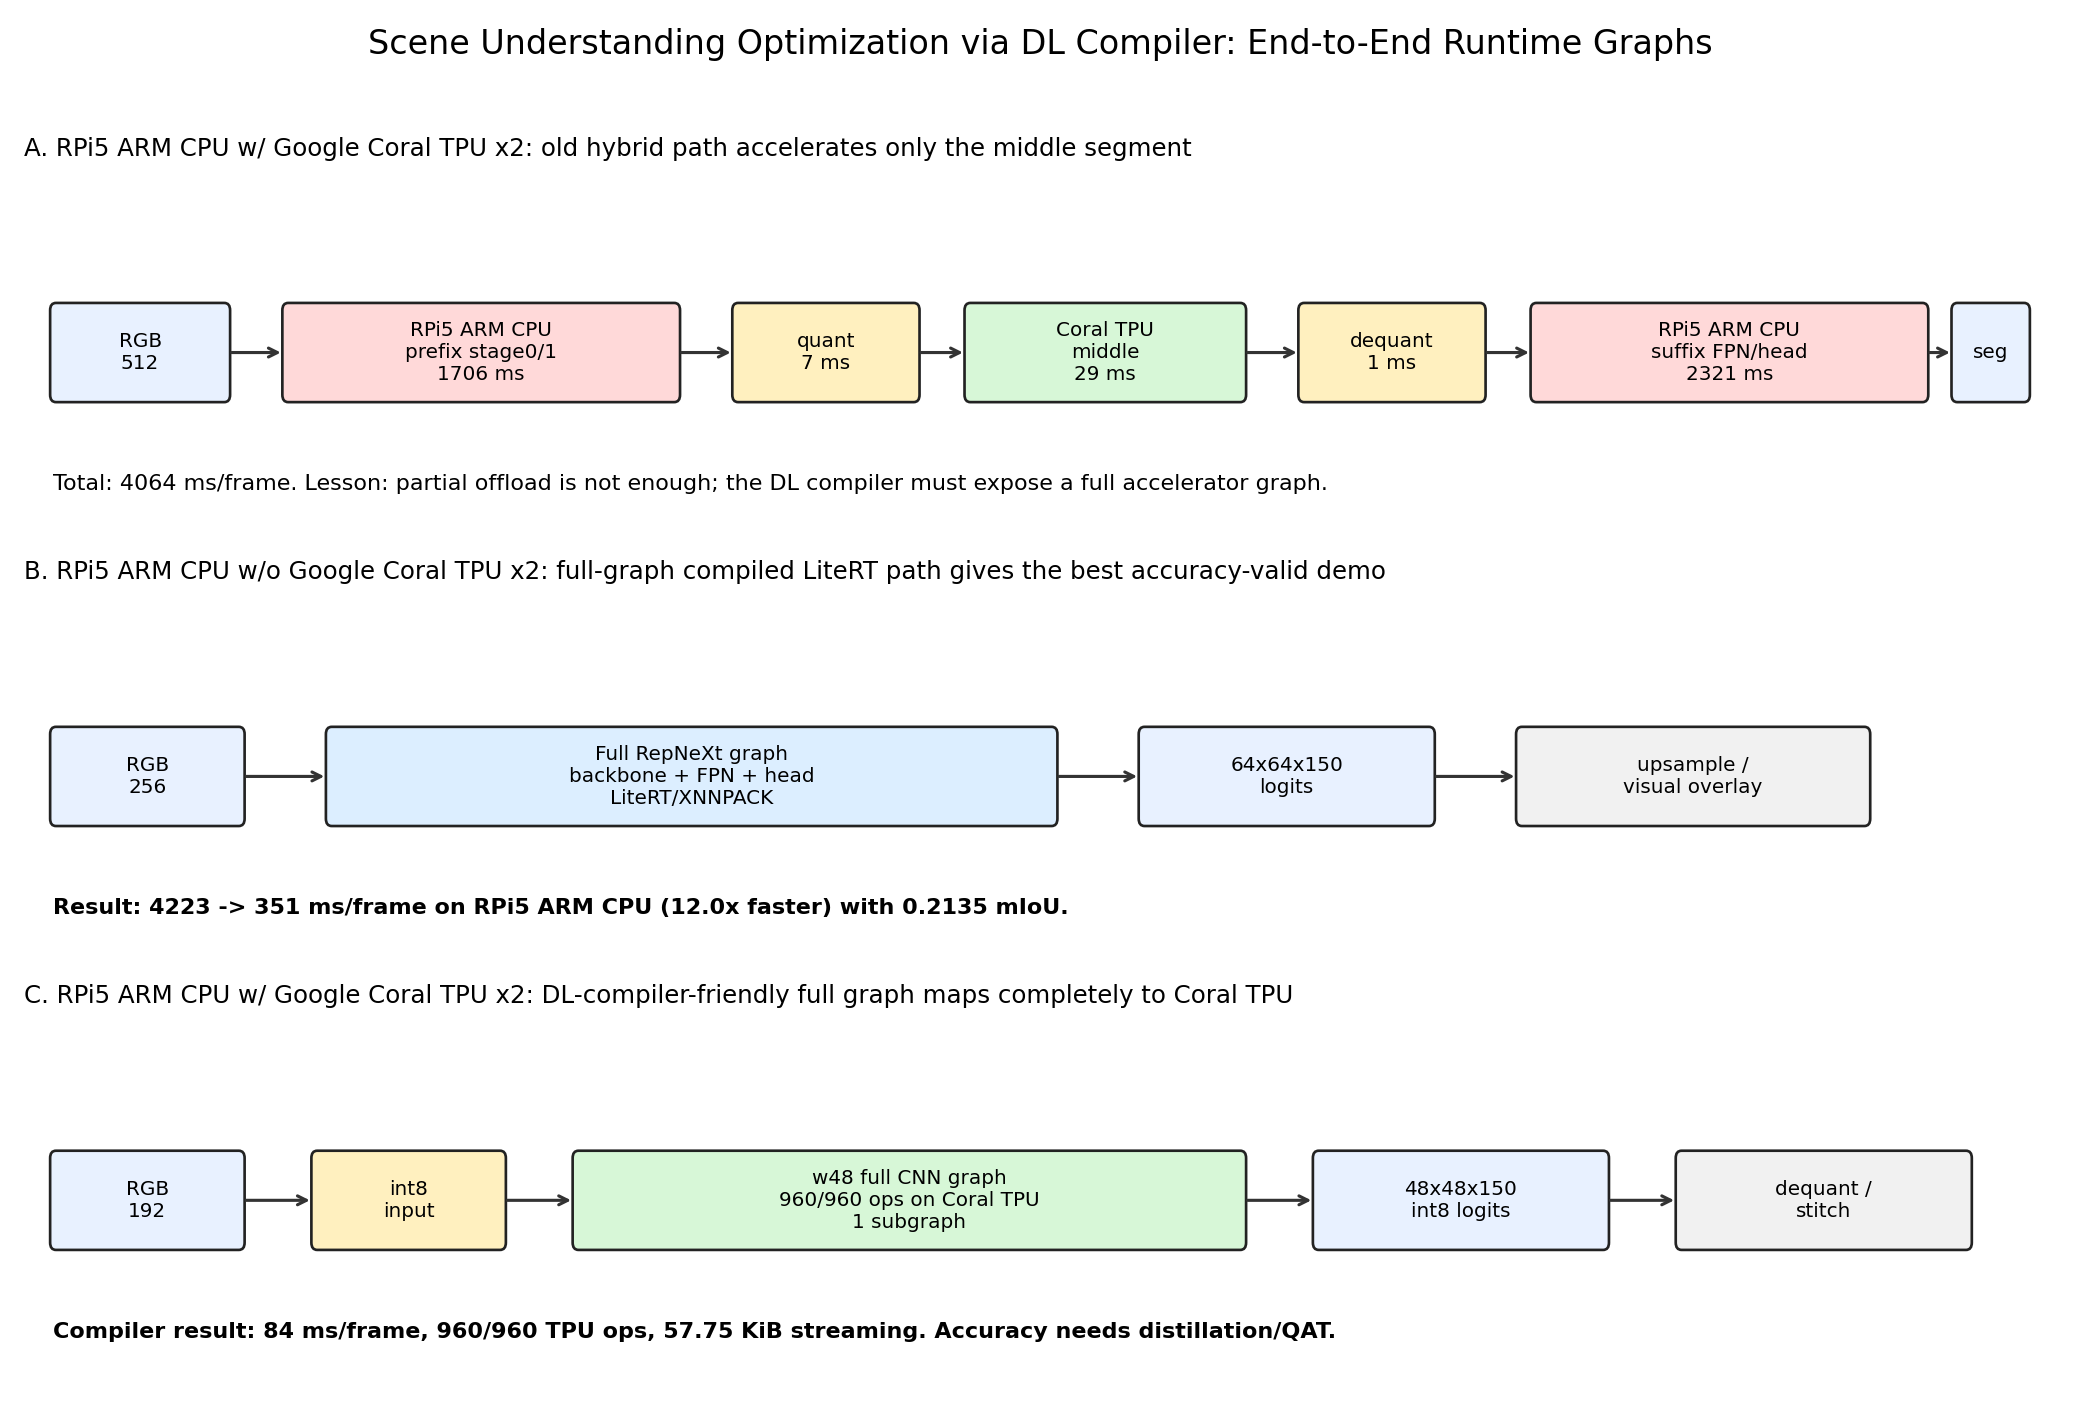
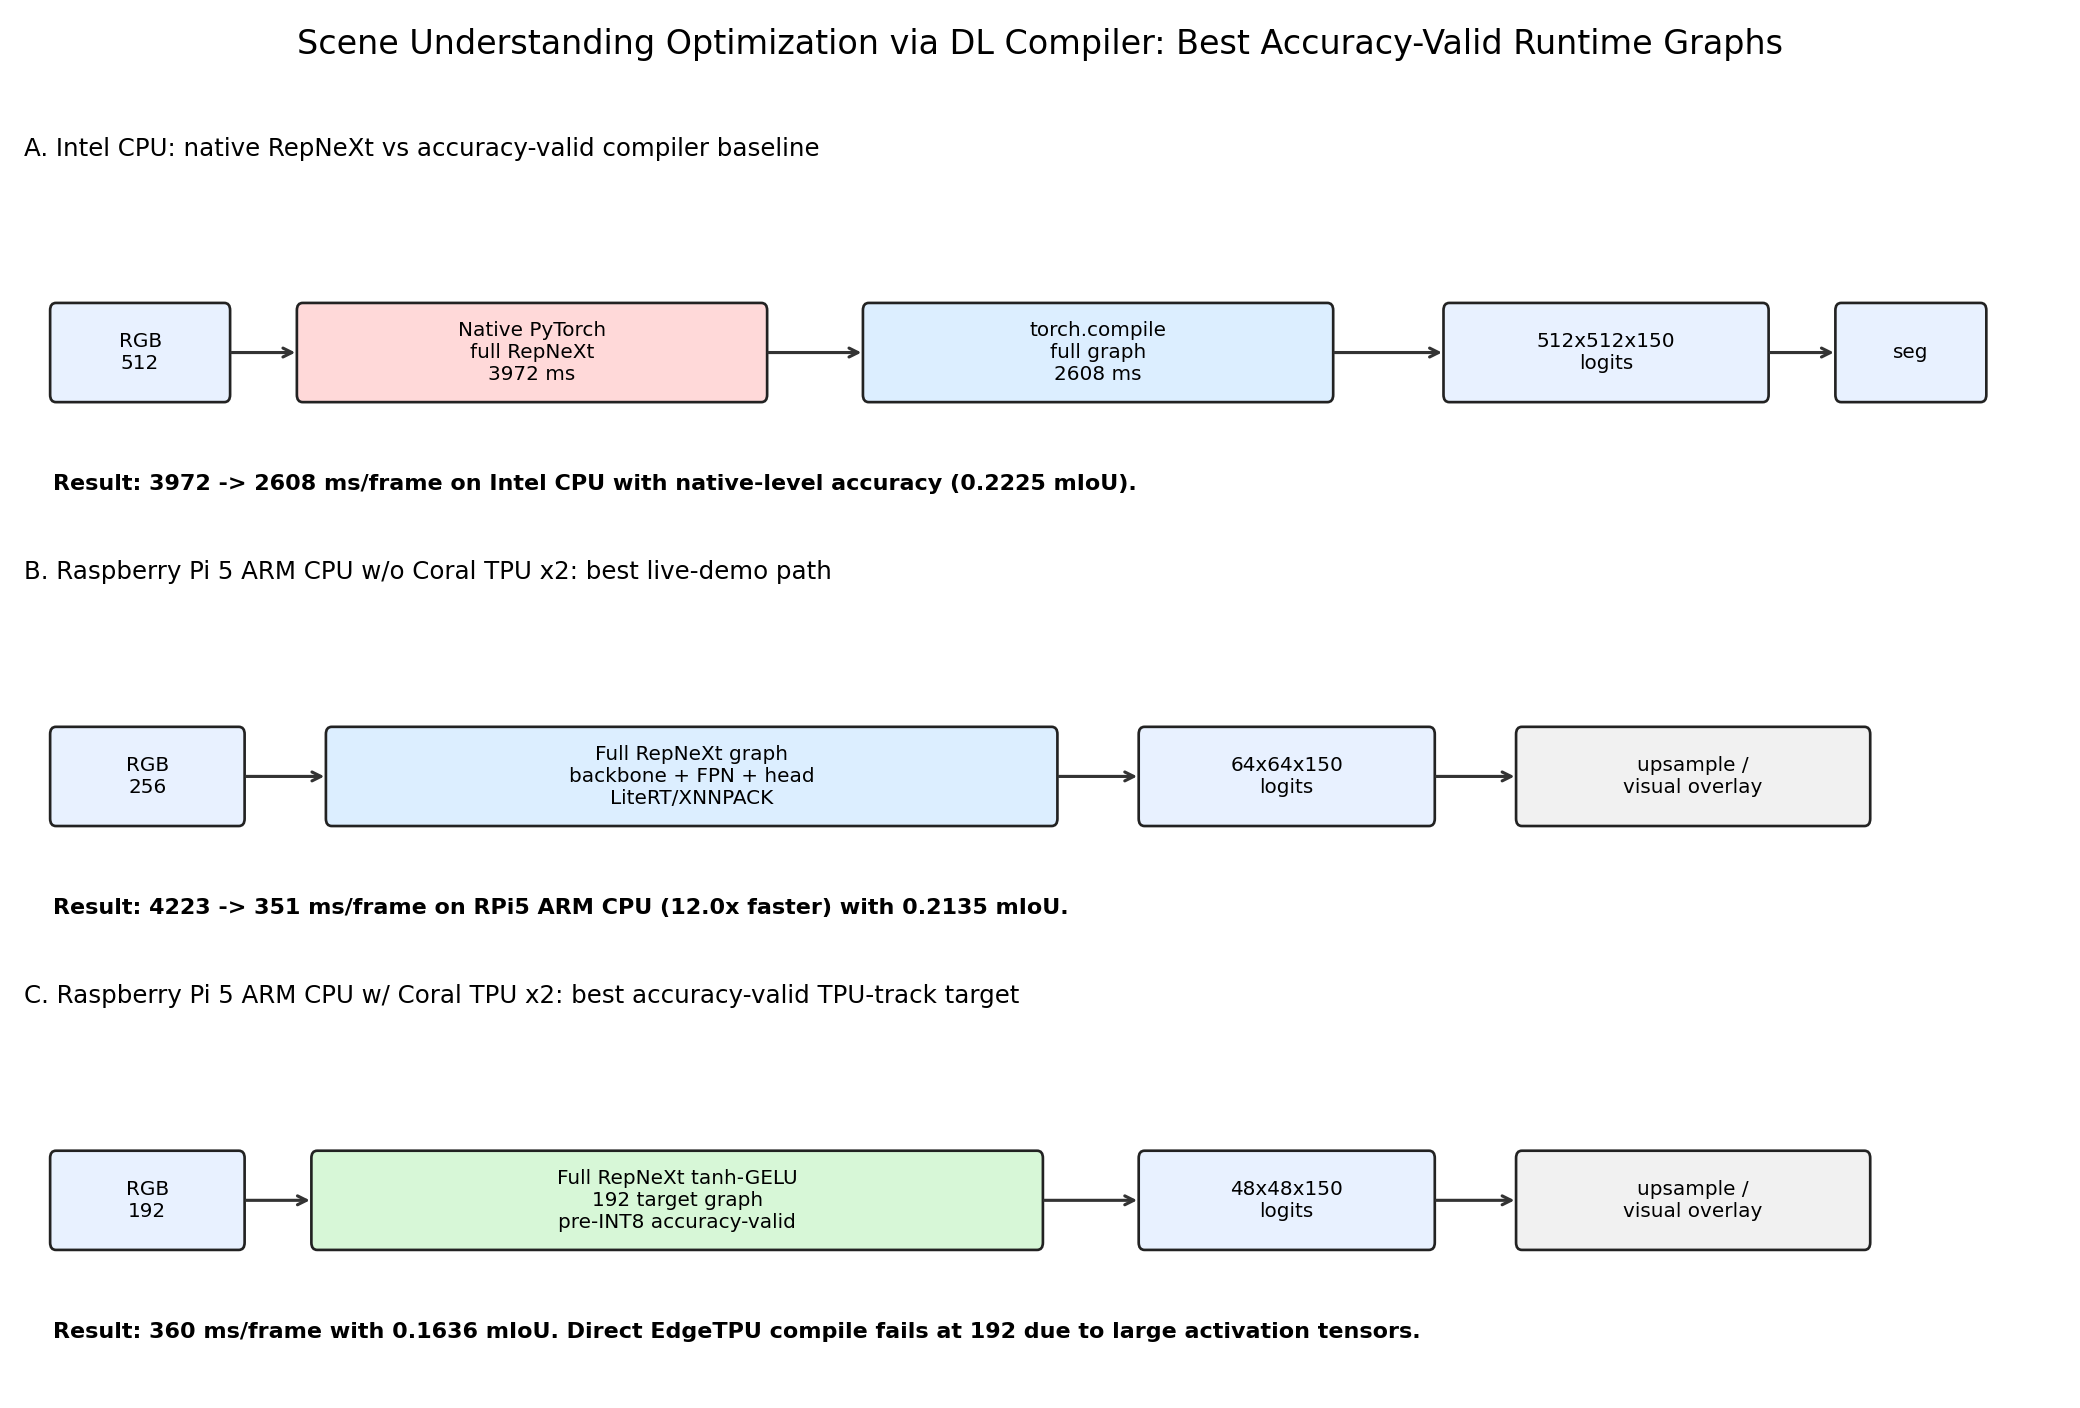
Update runtime graph to best track methods

diff --git a/demo/runtime_graph_viz.py b/demo/runtime_graph_viz.py
@@ -43,12 +43,12 @@ def arrow(ax, x0, y0, x1, y1):
 
 def render_pipeline_graph() -> None:
     fig, axes = plt.subplots(3, 1, figsize=(13, 8.8))
-    fig.suptitle("Scene Understanding Optimization via DL Compiler: End-to-End Runtime Graphs", fontsize=15, y=0.98)
+    fig.suptitle("Scene Understanding Optimization via DL Compiler: Best Accuracy-Valid Runtime Graphs", fontsize=15, y=0.98)
 
-    # 1. Old hybrid pipeline.
+    # 1. Intel CPU compiler baseline.
     ax = axes[0]
     ax.set_title(
-        "A. RPi5 ARM CPU w/ Google Coral TPU x2: old hybrid path accelerates only the middle segment",
+        "A. Intel CPU: native RepNeXt vs accuracy-valid compiler baseline",
         fontsize=11,
         loc="left",
     )
@@ -57,25 +57,24 @@ def render_pipeline_graph() -> None:
     ax.axis("off")
     y = 0.75
     box(ax, (0.2, y), (1.2, 0.5), "RGB\n512", "#e8f1ff")
-    box(ax, (1.8, y), (2.7, 0.5), "RPi5 ARM CPU\nprefix stage0/1\n1706 ms", "#ffd9d9")
-    box(ax, (4.9, y), (1.25, 0.5), "quant\n7 ms", "#fff0bf")
-    box(ax, (6.5, y), (1.9, 0.5), "Coral TPU\nmiddle\n29 ms", "#d7f7d7")
-    box(ax, (8.8, y), (1.25, 0.5), "dequant\n1 ms", "#fff0bf")
-    box(ax, (10.4, y), (2.7, 0.5), "RPi5 ARM CPU\nsuffix FPN/head\n2321 ms", "#ffd9d9")
-    box(ax, (13.3, y), (0.5, 0.5), "seg", "#e8f1ff")
-    for x0, x1 in [(1.4, 1.8), (4.5, 4.9), (6.15, 6.5), (8.4, 8.8), (10.05, 10.4), (13.1, 13.3)]:
+    box(ax, (1.9, y), (3.2, 0.5), "Native PyTorch\nfull RepNeXt\n3972 ms", "#ffd9d9")
+    box(ax, (5.8, y), (3.2, 0.5), "torch.compile\nfull graph\n2608 ms", "#dceeff")
+    box(ax, (9.8, y), (2.2, 0.5), "512x512x150\nlogits", "#e8f1ff")
+    box(ax, (12.5, y), (1.0, 0.5), "seg", "#e8f1ff")
+    for x0, x1 in [(1.4, 1.9), (5.1, 5.8), (9.0, 9.8), (12.0, 12.5)]:
         arrow(ax, x0, 1.0, x1, 1.0)
     ax.text(
         0.2,
         0.25,
-        "Total: 4064 ms/frame. Lesson: partial offload is not enough; the DL compiler must expose a full accelerator graph.",
+        "Result: 3972 -> 2608 ms/frame on Intel CPU with native-level accuracy (0.2225 mIoU).",
         fontsize=10,
+        fontweight="bold",
     )
 
-    # 2. Accuracy-recovered CPU low-res path.
+    # 2. Accuracy-recovered RPi5 CPU low-res path.
     ax = axes[1]
     ax.set_title(
-        "B. RPi5 ARM CPU w/o Google Coral TPU x2: full-graph compiled LiteRT path gives the best accuracy-valid demo",
+        "B. Raspberry Pi 5 ARM CPU w/o Coral TPU x2: best live-demo path",
         fontsize=11,
         loc="left",
     )
@@ -99,7 +98,7 @@ def render_pipeline_graph() -> None:
     # 3. Compiler-centric TPU candidate.
     ax = axes[2]
     ax.set_title(
-        "C. RPi5 ARM CPU w/ Google Coral TPU x2: DL-compiler-friendly full graph maps completely to Coral TPU",
+        "C. Raspberry Pi 5 ARM CPU w/ Coral TPU x2: best accuracy-valid TPU-track target",
         fontsize=11,
         loc="left",
     )
@@ -107,16 +106,15 @@ def render_pipeline_graph() -> None:
     ax.set_ylim(0, 2)
     ax.axis("off")
     box(ax, (0.2, y), (1.3, 0.5), "RGB\n192", "#e8f1ff")
-    box(ax, (2.0, y), (1.3, 0.5), "int8\ninput", "#fff0bf")
-    box(ax, (3.8, y), (4.6, 0.5), "w48 full CNN graph\n960/960 ops on Coral TPU\n1 subgraph", "#d7f7d7")
-    box(ax, (8.9, y), (2.0, 0.5), "48x48x150\nint8 logits", "#e8f1ff")
-    box(ax, (11.4, y), (2.0, 0.5), "dequant /\nstitch", "#f1f1f1")
-    for x0, x1 in [(1.5, 2.0), (3.3, 3.8), (8.4, 8.9), (10.9, 11.4)]:
+    box(ax, (2.0, y), (5.0, 0.5), "Full RepNeXt tanh-GELU\n192 target graph\npre-INT8 accuracy-valid", "#d7f7d7")
+    box(ax, (7.7, y), (2.0, 0.5), "48x48x150\nlogits", "#e8f1ff")
+    box(ax, (10.3, y), (2.4, 0.5), "upsample /\nvisual overlay", "#f1f1f1")
+    for x0, x1 in [(1.5, 2.0), (7.0, 7.7), (9.7, 10.3)]:
         arrow(ax, x0, 1.0, x1, 1.0)
     ax.text(
         0.2,
         0.25,
-        "Compiler result: 84 ms/frame, 960/960 TPU ops, 57.75 KiB streaming. Accuracy needs distillation/QAT.",
+        "Result: 360 ms/frame with 0.1636 mIoU. Direct EdgeTPU compile fails at 192 due to large activation tensors.",
         fontsize=10,
         fontweight="bold",
     )